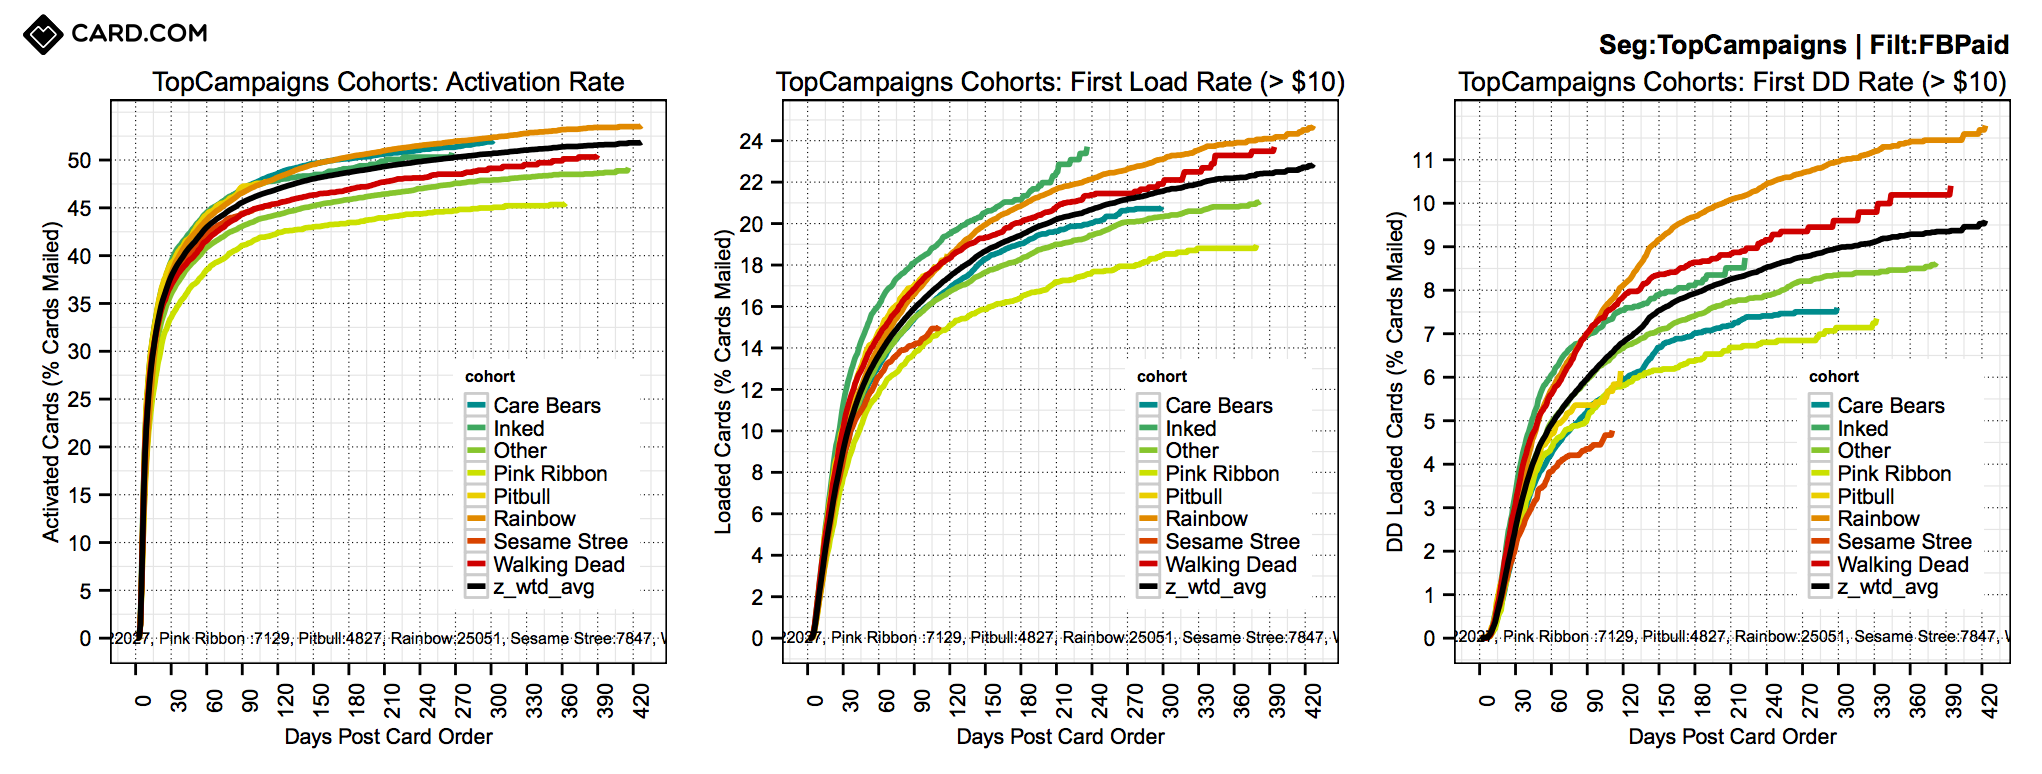
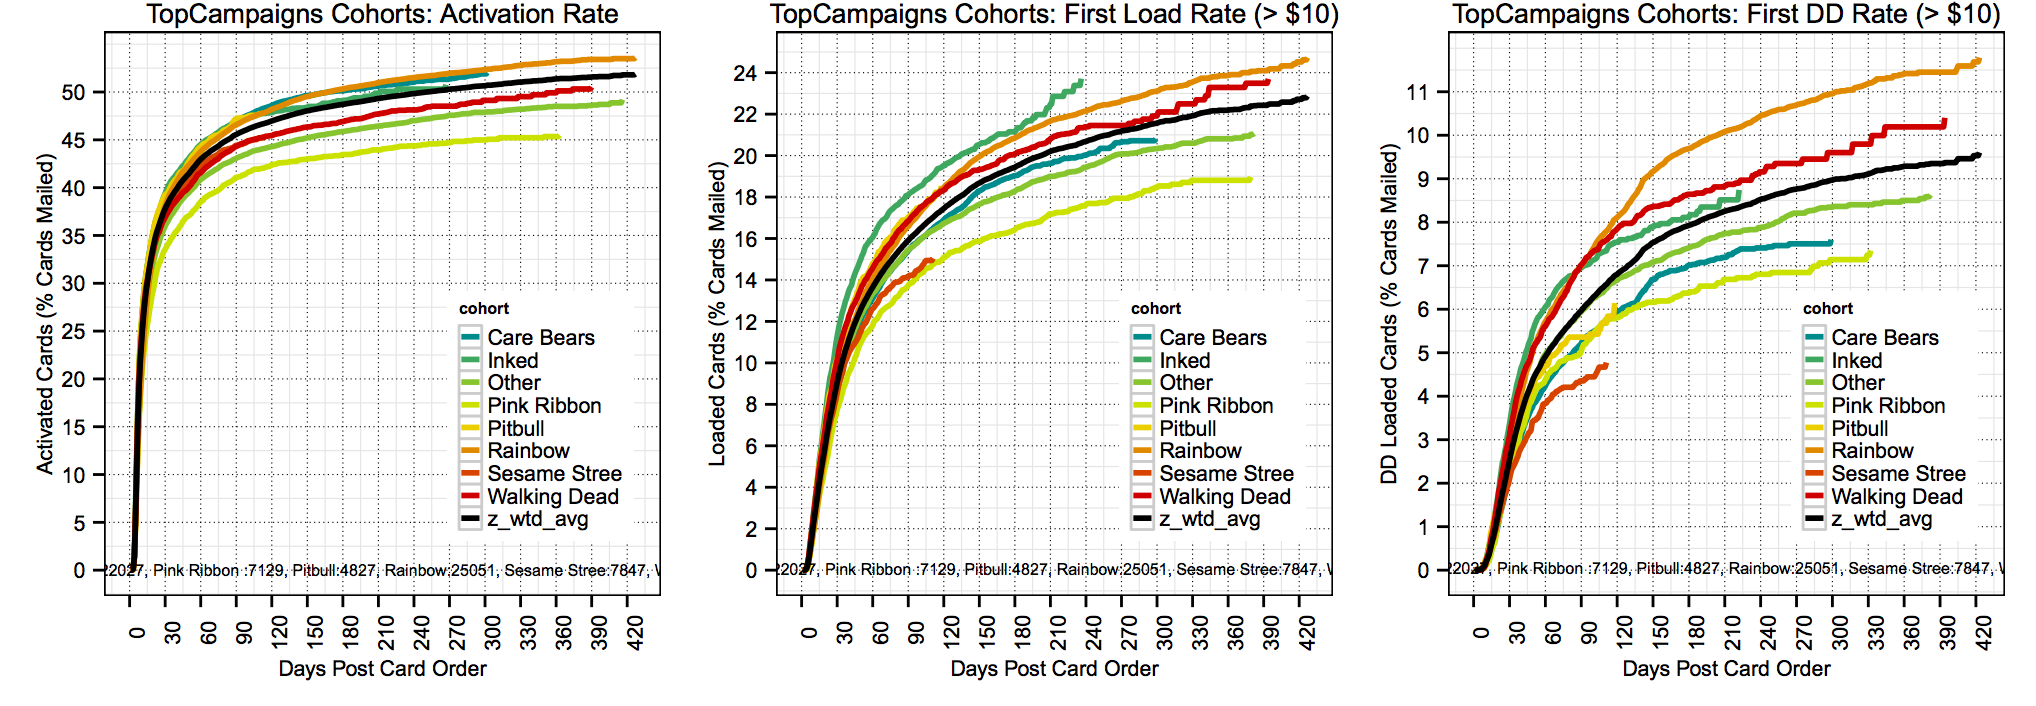
Final prep

Changed region(s): [[0.0, 0.0, 0.9902, 0.966]]

diff --git a/index.html b/index.html
@@ -72,17 +72,30 @@
 						What can science teach you...
 					</p>
 					<ul>
-						<li>As a Drupalero</li>
-						<li>As a software engineer</li>
-						<li>As an entrepreneur</li>
+						<li>As Drupaleros and Drupaleras</li>
+						<li>As software engineers</li>
+						<li>As entrepreneurs</li>
 					</ul>
+				</section>
+
+				<section>
+					<ul>
+						<li>Inspiration</li>
+						<li>Leadership</li>
+						<li>Passion</li>
+						<li>Smart People</li>
+					</ul>
+				</section>
+
+				<section>
+					<h2>Seek your product's Truth</h2>
 				</section>
 
 				<section>
 					<h2>whois</h2>
 					<p>
 						CTO and co-founder of CARD.com <br />
-						&#10003; Built out a Product Engineering and Data Sciences teams
+						&#10003; Product Engineering and Data Science
 					</p>
 					<hr>
 					<p>
@@ -123,14 +136,14 @@
 						<h2>Drupal + Science = CARD.com</h2>
 						<p>Hypothesis:</p>
 						<blockquote>
-							Customers don't care about a fancy bank brand.
+							&ldquo;Customers don't care about a fancy bank brand.&ldquo;
 						</blockquote>
 					</section>
 					<section>
 						<table>
 							<tr>
 								<td><img src="images/greggles.png"><br /><small>@greggles</small></td>
-								<td><img src="images/matt_chapman.png"><br /><small>@matt200</small></td>
+								<td><img src="images/matt_chapman.png"><br /><small>@matt2000</small></td>
 								<td><img src="images/mrob.jpg"><br /><small>@mike.roberts</small></td>
 							</tr>
 							<tr>
@@ -174,11 +187,15 @@
 						<img src="images/results.png">
 					</section>
 					<section>
-						<p>We made a discovery!</p>
+						<h2>Scientists Make Discoveries</h2>
 						<p>
 							Brand and targeting specificity are predictors for customer intent.
 						</p>
 					</section>
+					<section>
+						<img src="images/TopCampaigns.png">
+					</section>
+
 				</section>
 
 				<section>
@@ -190,25 +207,43 @@
 					<img width="35%" src="images/ElvisPresley.gif">
 				</section>
 				<section>
-					<img width="35%" src="images/BigBird.gif">
+					<table>
+						<tr>
+							<td><img width="85%" src="images/BigBird.gif"></td>
+							<td><img width="85%" src="images/StarTrek.gif"></td>
+							<td><img width="85%" src="images/Pitbull.gif"></td>
+						</tr>
+						<tr>
+							<td><img width="85%" src="images/Drupal.gif"></td>
+							<td><img width="85%" src="images/ElvisPresley.gif"></td>
+							<td><img width="85%" src="images/WalkingDead.gif"></td>
+						</tr>
+					</table>
 				</section>
 				<section>
-					<img width="35%" src="images/StarTrek.gif">
+					<table>
+						<tr>
+							<td><img width="85%" src="images/Gray.gif"></td>
+							<td><img width="85%" src="images/Gray.gif"></td>
+							<td><img width="85%" src="images/Gray.gif"></td>
+						</tr>
+						<tr>
+							<td><img width="85%" src="images/Gray.gif"></td>
+							<td><img width="85%" src="images/Gray.gif"></td>
+							<td><img width="85%" src="images/Gray.gif"></td>
+						</tr>
+					</table>
 				</section>
+
 				<section>
-					<img width="35%" src="images/Pitbull.gif">
-				</section>
-				<section>
-					<img width="35%" src="images/Drupal.gif">
-				</section>
-				<section>
-					<img width="35%" src="images/Gray.gif">
+					<img width="50%" src="images/Drupal.gif">
 				</section>
 
 				<section>
 					<h2>Art Matters</h2>
+					<p>Design provides a vector for disaggregation.</p>
 					<p>Design determines demographics.</p>
-					<p>But Human Behavior still reigns supreme!</p>
+					<p>... but Human Behavior still reigns supreme!</p>
 				</section>
 
 				<section>
@@ -219,11 +254,27 @@
 				</section>
 
 				<section>
-					<h2>Drupal is just a CMS</h2>
-					<ul>
-						<li>Rapid prototyping framework</li>
-						<li>Focus on the problem at hand, not recreating a foundation</li>
-					</ul>
+					<img src="images/feepage.png">
+				</section>
+
+				<section>
+					<h2>Customers Differentiate</h2>
+					<img src="images/feedata.png">
+				</section>
+
+				<section>
+					<h2>Question Everything</h2> 
+				</section>
+
+				<section>
+					<p><img src="images/empty-lab1.jpg"></p>
+					<p>Make Drupal your Laboratory</p>
+				</section>
+
+				<section>
+					<h2>Thanks!</h2>
+					<p>@RonRLin</p>
+					<p>obironkenobi.com</p>
 				</section>
 
 			</div>
